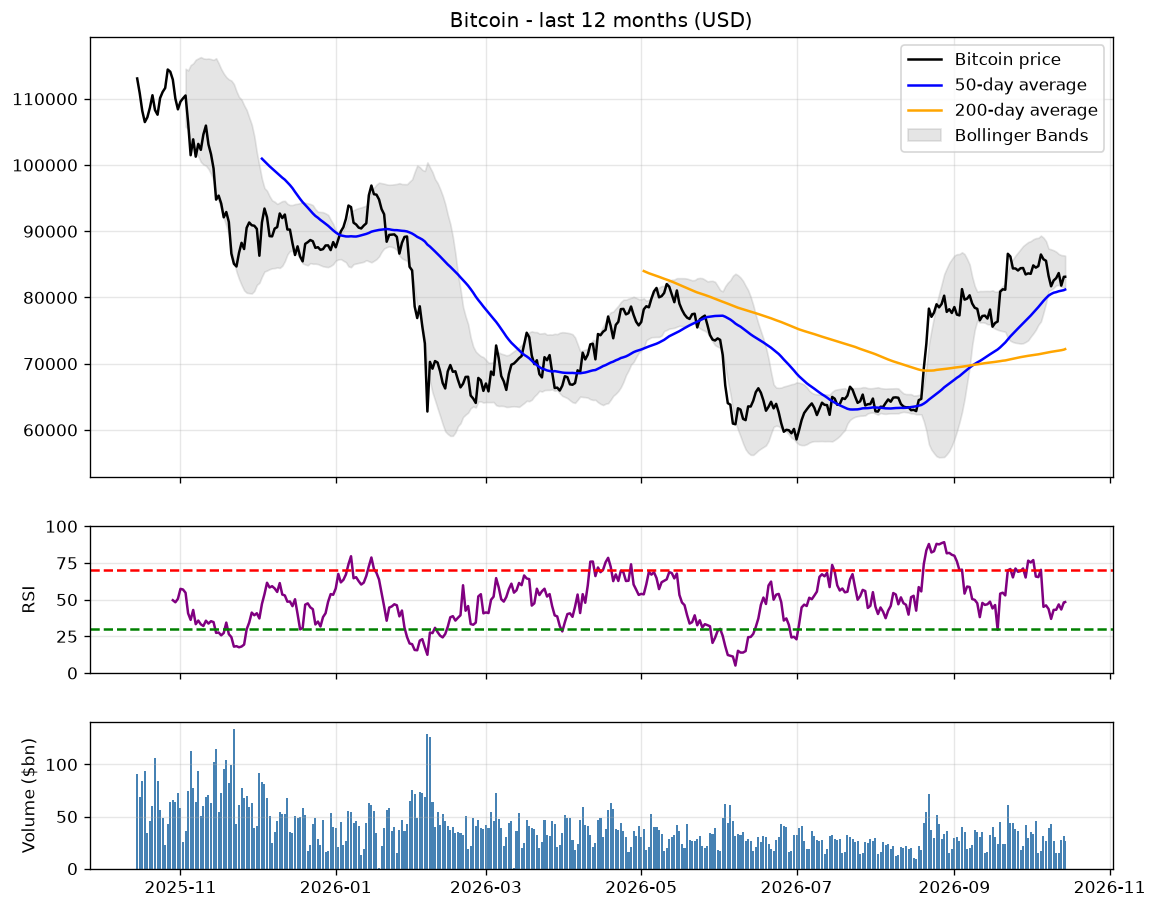
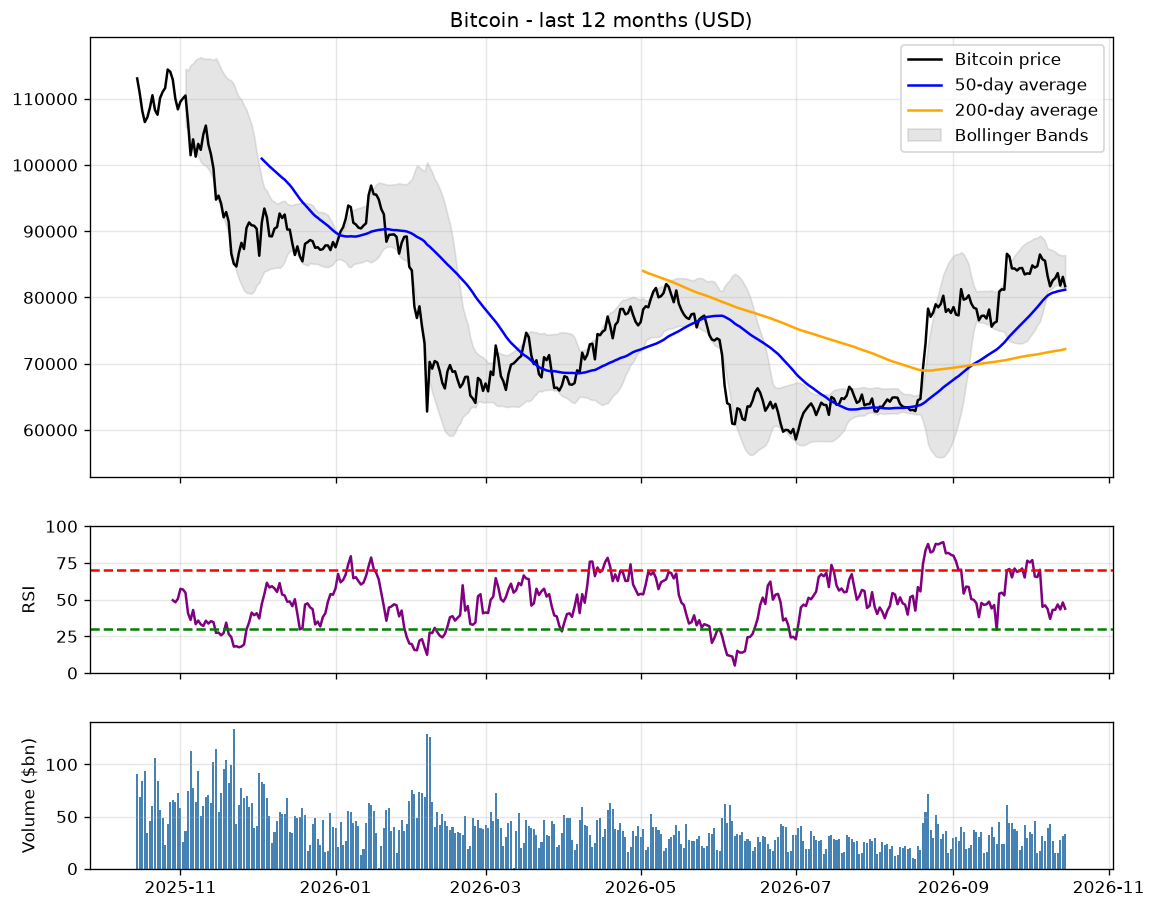
Update report

diff --git a/report.html b/report.html
@@ -15,23 +15,23 @@ img { width: 100%; border: 1px solid #ddd; border-radius: 8px; }
 </head>
 <body>
 <h1>Bitcoin Report</h1>
-<p class="updated">Last updated: Wednesday 14 October 2026 at 12:32 &middot; Price: $83,128</p>
+<p class="updated">Last updated: Wednesday 14 October 2026 at 21:59 &middot; Price: $81,714</p>
 
 <div class="verdict">The big picture: BULL MARKET</div>
 <p>Most long-term signals point up: Bitcoin is in an uptrend. Dips along the way are still normal.</p>
 
 <h2 class="bull">Bull signs (5)</h2>
-<ul><li>Price is above the 200-day average ($72,205)</li><li>The 50-day average is above the 200-day (golden cross)</li><li>Price is well above the 200-week floor ($66,894)</li><li>The 200-day average is rising</li><li>Mood has been positive for a month (average 67)</li></ul>
+<ul><li>Price is above the 200-day average ($72,198)</li><li>The 50-day average is above the 200-day (golden cross)</li><li>Price is well above the 200-week floor ($66,888)</li><li>The 200-day average is rising</li><li>Mood has been positive for a month (average 67)</li></ul>
 <h2 class="bear">Bear signs (1)</h2>
-<ul><li>Price is still 34% below the all-time high</li></ul>
+<ul><li>Price is still 35% below the all-time high</li></ul>
 
 
 <h2>Right now: what the indicators say</h2>
 <ul>
-<li><b>Momentum (RSI):</b> RSI is 48: neutral. No strong push either way.</li>
-<li><b>Trading activity (volume):</b> Trading this week is normal (1.0x the usual level). The price is falling (-0.2% in 7 days).</li>
+<li><b>Momentum (RSI):</b> RSI is 44: neutral. No strong push either way.</li>
+<li><b>Trading activity (volume):</b> Trading this week is normal (1.0x the usual level). The price is falling (-1.9% in 7 days).</li>
 <li><b>Market mood (Fear &amp; Greed):</b> Mood is 62/100 (Greed); the 30-day average is 67. People are optimistic. Normal in an uptrend, but worth watching if it climbs into extreme greed.</li>
-<li><b>Price range (Bollinger Bands):</b> The price is in the lower half of its normal range: soft, but not stretched. The band is unusually narrow (a 'squeeze'). Big moves often follow, in either direction.</li>
+<li><b>Price range (Bollinger Bands):</b> The price is at the bottom of its normal range: stretched low, and often due a bounce. The band is unusually narrow (a 'squeeze'). Big moves often follow, in either direction.</li>
 </ul>
 <h2>The chart</h2>
 <img src="bitcoin_chart.png">
@@ -40,19 +40,19 @@ img { width: 100%; border: 1px solid #ddd; border-radius: 8px; }
 
 <h2>Key price levels</h2>
 <p>Levels <b>above</b> today's price are targets. Levels <b>below</b> are warning lines.</p>
-<table><tr><td>$100,958</td><td>Within 20% of the record high - bull market confirmed</td></tr><tr><td>$88,339</td><td>Out of 'deep drop' territory</td></tr><tr><td>$83,128</td><td><-- PRICE TODAY</td></tr><tr><td>$81,196</td><td>50-day average - a normal pullback zone in an uptrend</td></tr><tr><td>$80,273</td><td>Below here, the verdict likely drops to TRANSITION</td></tr><tr><td>$72,205</td><td>200-day average - below here the long-term trend turns down</td></tr><tr><td>$66,894</td><td>200-week floor - past bear markets bottomed near or below it</td></tr></table>
+<table><tr><td>$100,958</td><td>Within 20% of the record high - bull market confirmed</td></tr><tr><td>$88,339</td><td>Out of 'deep drop' territory</td></tr><tr><td>$81,714</td><td><-- PRICE TODAY</td></tr><tr><td>$81,168</td><td>50-day average - a normal pullback zone in an uptrend</td></tr><tr><td>$80,265</td><td>Below here, the verdict likely drops to TRANSITION</td></tr><tr><td>$72,198</td><td>200-day average - below here the long-term trend turns down</td></tr><tr><td>$66,888</td><td>200-week floor - past bear markets bottomed near or below it</td></tr></table>
 
 <h2>Where could we be in 30 days?</h2>
 <p>Based on every 30-day period in the past year. This is history, not a forecast.</p>
 <ul>
-<li><b>Half the time:</b> between $73,358 and $89,168</li>
-<li><b>1 in 4 times:</b> lower than $73,358</li>
-<li><b>1 in 4 times:</b> higher than $89,168</li>
-<li><b>Rare extremes (1 in 10):</b> below $65,148 or above $97,536</li>
+<li><b>Half the time:</b> between $72,110 and $87,651</li>
+<li><b>1 in 4 times:</b> lower than $72,110</li>
+<li><b>1 in 4 times:</b> higher than $87,651</li>
+<li><b>Rare extremes (1 in 10):</b> below $64,040 or above $95,877</li>
 </ul>
 
 <h2>If a bear market returns</h2>
-<p>How far past bear markets fell from their peak, applied to today's record high of $126,198. Bitcoin is currently 34% below its record.</p>
+<p>How far past bear markets fell from their peak, applied to today's record high of $126,198. Bitcoin is currently 35% below its record.</p>
 <table><tr><td>-50%</td><td>$63,099</td><td>a mild bear market</td></tr><tr><td>-65%</td><td>$44,169</td><td>a deep bear market</td></tr><tr><td>-77%</td><td>$29,026</td><td>like the 2022 bear market</td></tr><tr><td>-84%</td><td>$20,192</td><td>like the 2018 bear market</td></tr></table>
 
 <h2>How to read this report</h2>
